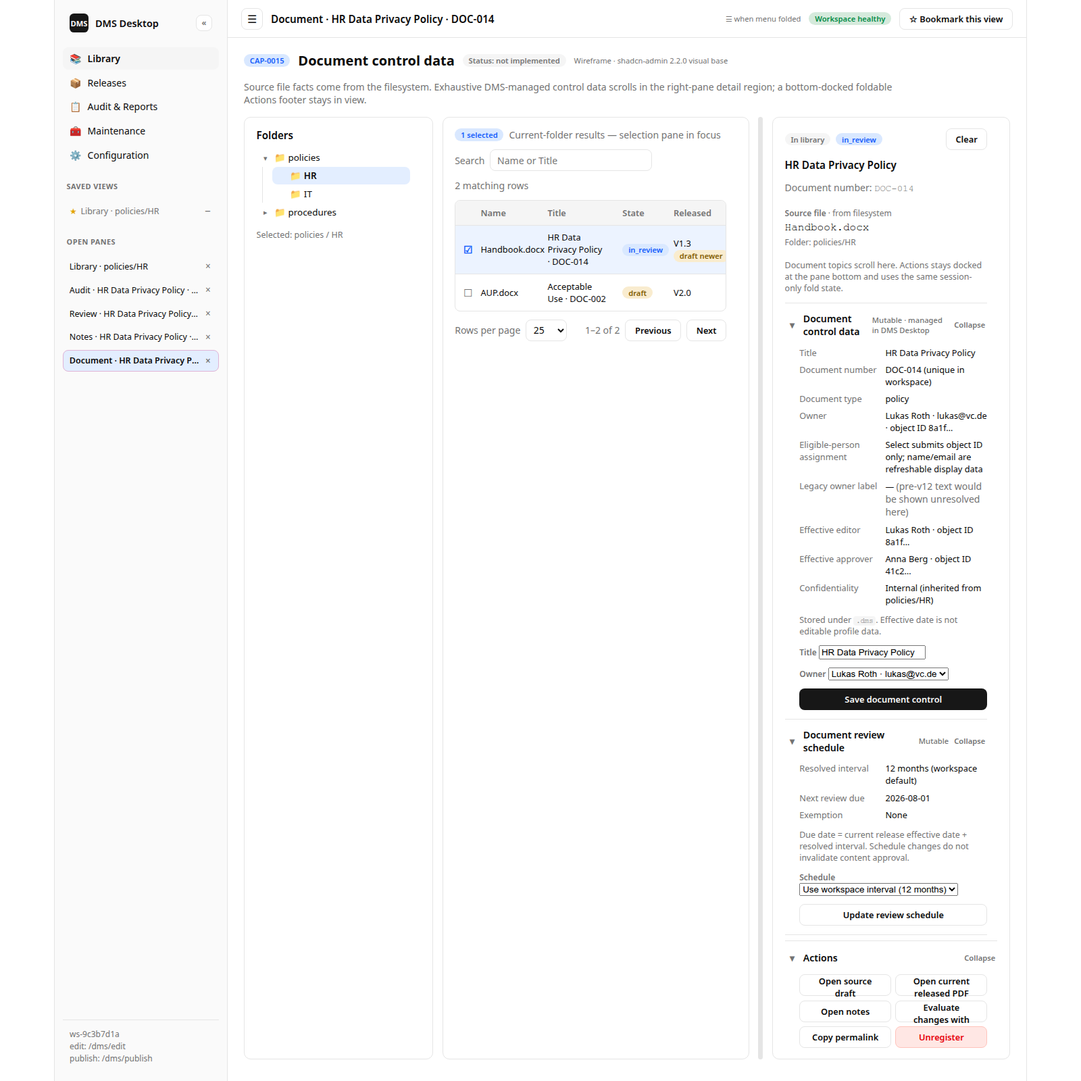
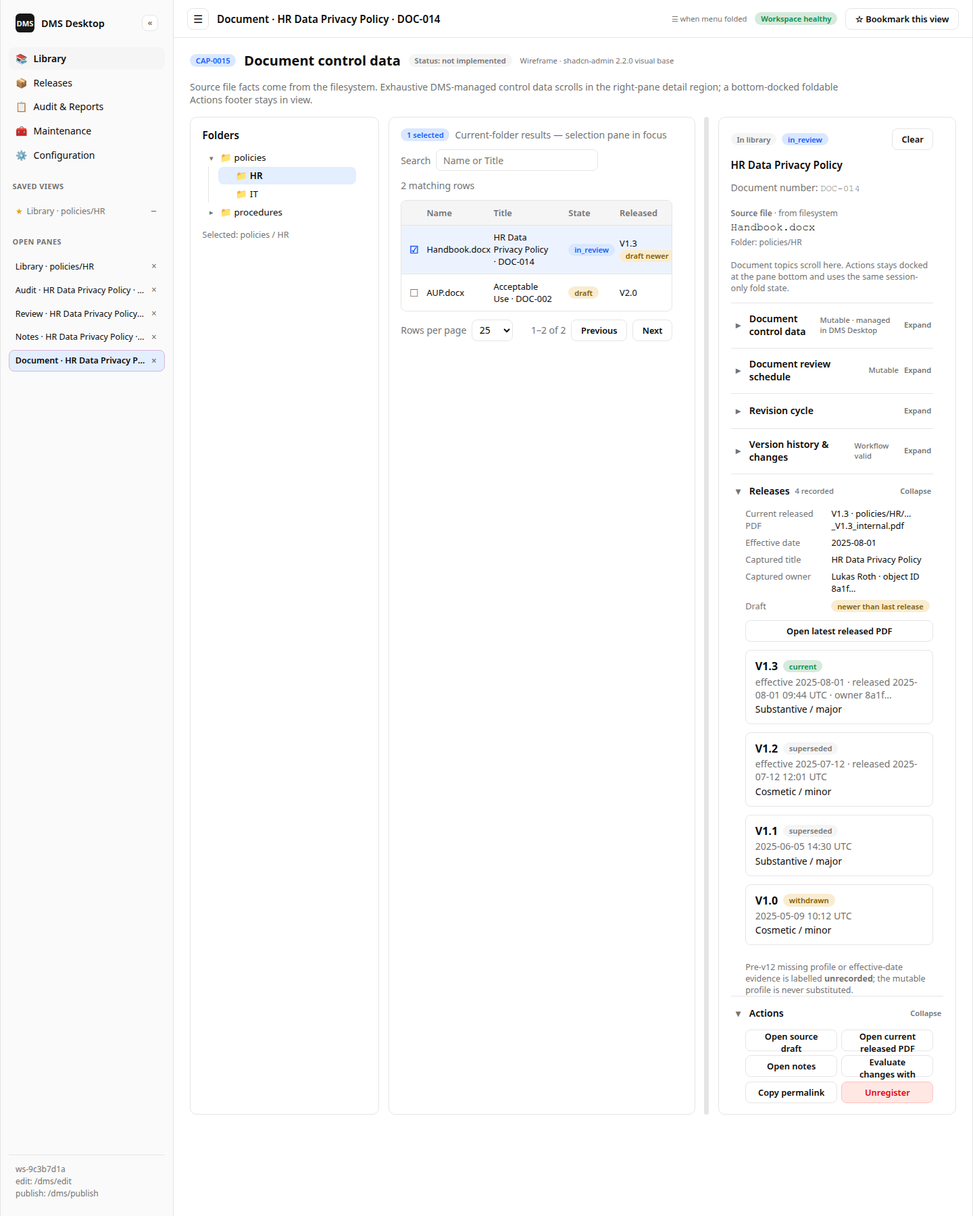
feat(desktop): default document pane to releases

diff --git a/docs/changes/archive/CHG-0028-document-pane-defaults-review.html b/docs/changes/archive/CHG-0028-document-pane-defaults-review.html
@@ -1,0 +1,15 @@
+<!doctype html>
+<html lang="en">
+<head>
+<meta charset="utf-8">
+<meta name="viewport" content="width=device-width,initial-scale=1">
+<title>Proposal — Document-pane defaults · DMS Desktop</title>
+<style>
+:root{--bg:#fff;--ink:#1f2933;--muted:#667885;--line:#dfe6ea;--panel:#f8fafb;--accent:#0f5f87;--good:#1e7a4f;font-family:Inter,ui-sans-serif,system-ui,sans-serif;color:var(--ink)}*{box-sizing:border-box}body{margin:0;background:#f1f4f6}.notice{padding:9px 18px;text-align:center;background:#7b3f00;color:#fff;font-size:13px;font-weight:750}.app{display:flex;width:1440px;max-width:100%;min-height:920px;margin:0 auto;background:#fff}.sidebar{width:220px;flex:0 0 auto;padding:18px 12px;background:#fbfcfd;border-right:1px solid var(--line)}.brand{font-weight:750;margin:8px 10px 20px}.brand b{display:inline-grid;place-items:center;width:25px;height:25px;margin-right:7px;border-radius:5px;background:#183b4d;color:#fff;font-size:10px}.nav{display:grid;gap:3px}.nav div{padding:10px;border-radius:6px;color:#3c4f5b;font-size:14px}.nav .active{background:#e9f1f5;color:#183b4d;font-weight:700}.main{flex:1;min-width:0}.header{height:58px;display:flex;align-items:center;padding:0 24px;border-bottom:1px solid var(--line);font-size:14px;font-weight:700}.header span{color:var(--muted);font-weight:500}.content{padding:24px}.eyebrow{color:#7b3f00;font-size:12px;font-weight:800;letter-spacing:.06em;text-transform:uppercase}h1{margin:6px 0;font-size:24px}.intro{margin:0;color:var(--muted);font-size:14px;max-width:900px}.library{display:grid;grid-template-columns:220px minmax(360px,1fr) 398px;gap:14px;height:690px;margin-top:20px}.card{border:1px solid var(--line);border-radius:8px;background:#fff;min-width:0}.card-head{padding:13px 14px;border-bottom:1px solid var(--line);font-weight:750;font-size:14px}.tree{padding:12px}.folder{padding:7px 4px;font-size:13px}.folder.active{border-radius:5px;background:#e6f2f8;color:var(--accent);font-weight:700}.indent{padding-left:18px}.list{overflow:hidden}.toolbar{display:flex;gap:8px;padding:11px 13px;border-bottom:1px solid var(--line)}.crumb{flex:1;border:1px solid var(--line);border-radius:5px;padding:8px;color:var(--muted);font-size:12px}.search{width:150px;border:1px solid var(--line);border-radius:5px;padding:8px;color:#9ba9b2;font-size:12px}table{width:100%;border-collapse:collapse;font-size:12px}th{background:var(--panel);color:var(--muted);text-align:left;padding:10px}td{padding:11px 10px;border-top:1px solid var(--line)}tr.selected td{background:#eaf4f9}.badge{display:inline-block;padding:3px 7px;border-radius:999px;background:#edf1f3;color:#52636f;font-size:11px;font-weight:700}.badge.good{background:#e5f5eb;color:var(--good)}.detail{display:flex;flex-direction:column;overflow:hidden}.detail-top{padding:14px;border-bottom:1px solid var(--line)}.detail-top h2{margin:7px 0 2px;font-size:17px}.source{color:var(--muted);font-size:12px;line-height:1.5}.detail-scroll{overflow:auto;padding:0 14px 12px}details{border-top:1px solid var(--line)}summary{display:flex;align-items:center;gap:8px;min-height:43px;list-style:none;font-size:13px;font-weight:750}summary:before{content:'▸';color:var(--muted)}details[open]>summary:before{content:'▾'}summary .hint{margin-left:auto;color:var(--muted);font-size:11px;font-weight:600}.release-body{padding:0 0 13px}.release-current{padding:9px 10px;border:1px solid #bcd6e3;border-radius:6px;background:#f4fafc;font-size:12px}.release-current strong{display:block}.release-current span{color:var(--muted)}.release-row{display:flex;justify-content:space-between;padding:9px 2px;border-bottom:1px solid #edf0f2;font-size:12px}.release-row small{color:var(--muted)}.action-footer{margin-top:auto;border-top:1px solid var(--line);padding:0 14px 12px}.actions{display:flex;gap:7px;flex-wrap:wrap}.btn{padding:7px 9px;border:1px solid #b9c8d0;border-radius:5px;background:#fff;color:#314651;font-size:12px;font-weight:650}.callout{margin-top:16px;padding:11px 13px;border-radius:7px;background:#fff5d6;color:#684600;font-size:13px;line-height:1.45}code{font-family:ui-monospace,SFMono-Regular,Menlo,monospace}
+</style>
+</head>
+<body>
+<div class="notice">REVIEW PROPOSAL — NOT IMPLEMENTED · CHG-0028</div>
+<div class="app"><aside class="sidebar"><div class="brand"><b>DMS</b>Desktop</div><div class="nav"><div class="active">📚 Library</div><div>📦 Releases</div><div>📋 Audit &amp; Reports</div><div>🧰 Maintenance</div><div>⚙ Configuration</div></div></aside><main class="main"><header class="header">Library <span>· Policies / HR</span></header><div class="content"><div class="eyebrow">Proposed initial pane state</div><h1>Start with releases, keep other document topics compact</h1><p class="intro">The right selection pane opens the release record that an operator most often needs to inspect. Version history, revision actions, mutable control data, and review scheduling remain available as ordinary collapsed disclosures. The docked Actions disclosure remains open.</p><section class="library"><aside class="card tree"><div class="card-head">Folders <span>⌄</span></div><div class="folder">▾ 📁 DMS Workspace</div><div class="folder indent">▾ 📁 Policies</div><div class="folder indent active">▾ 📁 HR</div><div class="folder indent">　 📁 Recruiting</div></aside><section class="card list"><div class="toolbar"><div class="crumb">DMS Workspace › Policies › <b>HR</b></div><div class="search">Search library</div></div><table><thead><tr><th>Name</th><th>Title</th><th>State</th><th>Released</th></tr></thead><tbody><tr class="selected"><td>📄 Handbook.docx</td><td><b>HR Data Privacy Policy</b><br>DOC-014</td><td><span class="badge">draft</span></td><td>V1.4</td></tr><tr><td>📄 Code_of_conduct.docx</td><td>Code of Conduct</td><td><span class="badge good">released</span></td><td>V2.0</td></tr></tbody></table></section><aside class="card detail"><div class="detail-top"><span class="badge good">In library</span> <span class="badge">draft</span><h2>HR Data Privacy Policy</h2><div class="source"><b>Source file</b><br>Handbook.docx · Policies/HR/Handbook.docx</div></div><div class="detail-scroll"><details><summary>Document control data <span class="hint">Expand</span></summary></details><details><summary>Document review schedule <span class="hint">Expand</span></summary></details><details><summary>Revision cycle <span class="hint">Expand</span></summary></details><details><summary>Version history &amp; changes <span class="hint">Expand</span></summary></details><details open><summary>Releases <span class="hint">Collapse</span></summary><div class="release-body"><div class="release-current"><strong>Current released PDF · V1.4</strong><span>policies/HR/Handbook_V1.4_internal.pdf</span><br><span>Effective 2026-08-02 · available</span></div><div class="release-row"><span><b>V1.4</b><br><small>Current · released 2026-08-02</small></span><span class="badge good">verified</span></div><div class="release-row"><span><b>V1.3</b><br><small>Superseded · released 2026-07-12</small></span><span class="badge good">verified</span></div><div class="release-row"><span><b>V1.2</b><br><small>Superseded · released 2026-06-05</small></span><span class="badge">unrecorded</span></div></div></details></div><div class="action-footer"><details open><summary>Actions <span class="hint">Collapse</span></summary><div class="actions"><button class="btn">Open source draft</button><button class="btn">Open latest released PDF</button><button class="btn">Open notes</button><button class="btn">Copy permalink</button></div></details></div></aside></section><p class="callout"><b>Deliberate boundary:</b> the removed history anchor is not replaced by a CAP-0011 link in DMS Desktop. CAP files are repository contracts, not installed operator help pages; the packaged app has no stable local CAP path or configured documentation URL. The folded topic remains the runtime entry point.</p></div></main></div>
+</body>
+</html>

diff --git a/docs/product/wireframes/html/CAP-0006-library-explorer.html b/docs/product/wireframes/html/CAP-0006-library-explorer.html
@@ -463,9 +463,8 @@ tr:last-child td { border-bottom: 0; }
       <div class="mono" style="margin-top:0.3rem">Handbook.docx</div>
       <div class="muted" style="font-size:0.75rem;margin-top:0.2rem">Folder: policies/HR</div>
     </div>
-    <button class="btn outline" style="width:100%;margin-top:0.7rem">View version history &amp; changes <span class="muted">· V1.3 current</span></button>
     <p class="hint">Document topics scroll here. Actions stays docked at the pane bottom and uses the same session-only fold state.</p>
-    <details class="selection-section" open>
+    <details class="selection-section">
       <summary><span class="selection-section-title">Document control data</span><span class="selection-section-meta">Mutable · managed in DMS Desktop</span></summary>
       <div class="selection-section-body"><dl class="kv"><div><dt>Title</dt><dd>HR Data Privacy Policy</dd></div><div><dt>Document number</dt><dd>DOC-014 (unique in workspace)</dd></div><div><dt>Document type</dt><dd>policy</dd></div><div><dt>Owner</dt><dd>Lukas Roth · lukas@vc.de · object ID 8a1f…</dd></div><div><dt>Eligible-person assignment</dt><dd>Select submits object ID only; name/email are refreshable display data</dd></div><div><dt>Legacy owner label</dt><dd>— <span class="muted">(pre-v12 text would be shown unresolved here)</span></dd></div><div><dt>Effective editor</dt><dd>Lukas Roth · object ID 8a1f…</dd></div><div><dt>Effective approver</dt><dd>Anna Berg · object ID 41c2…</dd></div><div><dt>Confidentiality</dt><dd>Internal (inherited from policies/HR)</dd></div></dl><p class="hint">Stored under <code>.dms</code>. Effective date is not editable profile data.</p>
       <div class="stack" style="margin-top:0.75rem">
@@ -474,7 +473,7 @@ tr:last-child td { border-bottom: 0; }
         <button class="btn">Save document control</button>
       </div></div>
     </details>
-    <details class="selection-section" open>
+    <details class="selection-section">
       <summary><span class="selection-section-title">Document review schedule</span><span class="selection-section-meta">Mutable</span></summary>
       <div class="selection-section-body"><dl class="kv"><div><dt>Resolved interval</dt><dd>12 months (workspace default)</dd></div><div><dt>Next review due</dt><dd>2026-08-01</dd></div><div><dt>Exemption</dt><dd>None</dd></div></dl><p class="hint">Due date = current release effective date + resolved interval. Schedule changes do not invalidate content approval.</p>
       <div class="stack" style="margin-top:0.75rem">
@@ -482,7 +481,7 @@ tr:last-child td { border-bottom: 0; }
         <button class="btn outline" disabled>Update review schedule</button>
       </div></div>
     </details>
-    <details class="selection-section" open>
+    <details class="selection-section">
       <summary><span class="selection-section-title">Revision cycle</span></summary>
       <div class="selection-section-body stack">
         <p class="muted" style="font-size:0.85rem;margin:0">Create a release candidate here in the workspace (not an external upload). Lifecycle is <code>released</code> while the draft matches the current release digest, and becomes <code>draft</code> when the draft changes or was never released. PDFs and history remain preserved.</p>
@@ -499,7 +498,7 @@ tr:last-child td { border-bottom: 0; }
         <p class="hint">Document-control-data changes while a review is open invalidate that review. Copy permalink uses workspace + document IDs only.</p>
       </div>
     </details>
-    <details class="selection-section" open>
+    <details class="selection-section">
       <summary><span class="selection-section-title">Version history &amp; changes</span><span class="selection-section-meta">Workflow valid</span></summary>
       <div class="selection-section-body stack">
         <p class="hint" style="margin:0">Versions and related workflow changes are grouped by the recorded actor. Expand a person to inspect individual events.</p>

diff --git a/docs/product/wireframes/html/CAP-0015-document-control-data.html b/docs/product/wireframes/html/CAP-0015-document-control-data.html
@@ -370,9 +370,8 @@ tr:last-child td { border-bottom: 0; }
       <div class="mono" style="margin-top:0.3rem">Handbook.docx</div>
       <div class="muted" style="font-size:0.75rem;margin-top:0.2rem">Folder: policies/HR</div>
     </div>
-    <button class="btn outline" style="width:100%;margin-top:0.7rem">View version history &amp; changes <span class="muted">· V1.3 current</span></button>
     <p class="hint">Document topics scroll here. Actions stays docked at the pane bottom and uses the same session-only fold state.</p>
-    <details class="selection-section" open>
+    <details class="selection-section">
       <summary><span class="selection-section-title">Document control data</span><span class="selection-section-meta">Mutable · managed in DMS Desktop</span></summary>
       <div class="selection-section-body"><dl class="kv"><div><dt>Title</dt><dd>HR Data Privacy Policy</dd></div><div><dt>Document number</dt><dd>DOC-014 (unique in workspace)</dd></div><div><dt>Document type</dt><dd>policy</dd></div><div><dt>Owner</dt><dd>Lukas Roth · lukas@vc.de · object ID 8a1f…</dd></div><div><dt>Eligible-person assignment</dt><dd>Select submits object ID only; name/email are refreshable display data</dd></div><div><dt>Legacy owner label</dt><dd>— <span class="muted">(pre-v12 text would be shown unresolved here)</span></dd></div><div><dt>Effective editor</dt><dd>Lukas Roth · object ID 8a1f…</dd></div><div><dt>Effective approver</dt><dd>Anna Berg · object ID 41c2…</dd></div><div><dt>Confidentiality</dt><dd>Internal (inherited from policies/HR)</dd></div></dl><p class="hint">Stored under <code>.dms</code>. Effective date is not editable profile data.</p>
       <div class="stack" style="margin-top:0.75rem">
@@ -381,7 +380,7 @@ tr:last-child td { border-bottom: 0; }
         <button class="btn">Save document control</button>
       </div></div>
     </details>
-    <details class="selection-section" open>
+    <details class="selection-section">
       <summary><span class="selection-section-title">Document review schedule</span><span class="selection-section-meta">Mutable</span></summary>
       <div class="selection-section-body"><dl class="kv"><div><dt>Resolved interval</dt><dd>12 months (workspace default)</dd></div><div><dt>Next review due</dt><dd>2026-08-01</dd></div><div><dt>Exemption</dt><dd>None</dd></div></dl><p class="hint">Due date = current release effective date + resolved interval. Schedule changes do not invalidate content approval.</p>
       <div class="stack" style="margin-top:0.75rem">
@@ -389,7 +388,7 @@ tr:last-child td { border-bottom: 0; }
         <button class="btn outline" disabled>Update review schedule</button>
       </div></div>
     </details>
-    <details class="selection-section" open>
+    <details class="selection-section">
       <summary><span class="selection-section-title">Revision cycle</span></summary>
       <div class="selection-section-body stack">
         <p class="muted" style="font-size:0.85rem;margin:0">Create a release candidate here in the workspace (not an external upload). Lifecycle is <code>released</code> while the draft matches the current release digest, and becomes <code>draft</code> when the draft changes or was never released. PDFs and history remain preserved.</p>
@@ -406,7 +405,7 @@ tr:last-child td { border-bottom: 0; }
         <p class="hint">Document-control-data changes while a review is open invalidate that review. Copy permalink uses workspace + document IDs only.</p>
       </div>
     </details>
-    <details class="selection-section" open>
+    <details class="selection-section">
       <summary><span class="selection-section-title">Version history &amp; changes</span><span class="selection-section-meta">Workflow valid</span></summary>
       <div class="selection-section-body stack">
         <p class="hint" style="margin:0">Versions and related workflow changes are grouped by the recorded actor. Expand a person to inspect individual events.</p>

diff --git a/docs/changes/archive/CHG-0028-document-pane-defaults.md b/docs/changes/archive/CHG-0028-document-pane-defaults.md
@@ -1,0 +1,173 @@
+# CHG-0028 — Document-pane initial disclosure state
+
+Make a selected Library document open with **Releases** expanded, while
+**Version history & changes**, **Revision cycle**, **Document control data**, and
+**Document review schedule** start folded; keep **Actions** unchanged and remove
+the Version history anchor button.
+
+**Plan ID:** CHG-0028-document-pane-defaults
+**Execution slot:** P0400
+**Created:** 2026-08-21
+**Depends on:** none
+**Entry checkpoint:** Operator did not choose a clarification option and directed the agent to use its best judgement; the recommended approval path was selected on 2026-08-21.
+**Context sources:** `docs/changes/AGENTS.md` (Local Contracts); `docs/product/capabilities/CAP-0006-library-explorer.md` (Outcomes 2, 6, 8); `docs/product/capabilities/CAP-0011-approval-evidence.md` (Outcome 4); `docs/product/capabilities/CAP-0015-document-control-data.md` (Outcome 11 and Outcome 14); `crates/dms-desktop/AGENTS.md` (Library selection-pane contract); `crates/dms-desktop/ui/library.mjs` (`DEFAULT_SELECTION_OPEN`, `openVersionHistory`, `selectionMarkup`); `crates/dms-desktop/ui/app.mjs` (`focusVersionHistorySummary`, `handleLibraryClick`); `crates/dms-desktop/ui/library.test.mjs`; `crates/dms-desktop/ui/app.test.mjs`; `docs/product/wireframes/generate.mjs` (CAP-0006/CAP-0011/CAP-0015 screens).
+**Produces:** An approved, tested initial disclosure order for the single-document Library pane, matching CAP contracts and CAP-linked wireframes without a runtime link to repository-only CAP files.
+**Status:** done — all verification gates passed.
+**Filename convention:** The repository's active-record contract requires `CHG-*.md`; `P0400` is this CHG's execution-order authority and does not change that filename convention.
+
+| Field | Value |
+| --- | --- |
+| ID | CHG-0028 |
+| Status | done |
+| External request | Direct operator request: "Redesign the document control pane as follows: (1) Releases unfolded (2) Version history & changes folded (3) Revision cycle folded (4) Document control data folded (5) Document review schedule folded (*) (a) Actions as is (b) Remove View version history & changes because it's only a anchro to the folded element; I would expect a link to the CAP-0011-approval-evidence page" |
+| Affected CAPs | CAP-0006, CAP-0011, CAP-0015 |
+| Decision records | None — disclosure defaults and in-pane presentation are capability-local |
+| Review wireframe | [`CHG-0028-document-pane-defaults-review.html`](CHG-0028-document-pane-defaults-review.html) · [`PNG export`](CHG-0028-document-pane-defaults-review.png) — review-only; not listed in the product wireframe manifest |
+
+## Current state
+
+- The recently completed CHG-0027 sets all five main detail topics open by
+default through `DEFAULT_SELECTION_OPEN`:
+  `crates/dms-desktop/ui/library.mjs:46-53`.
+- CHG-0027 added **View version history & changes** under Source file identity.
+  It calls `openVersionHistory`, renders, then focuses the history summary:
+  `library.mjs:72-74`; `crates/dms-desktop/ui/app.mjs`.
+- `Actions` is already an independently foldable, bottom-docked disclosure and
+  defaults open. It must not change.
+- The primary selection pane already has all required information for a Releases
+  default; no core query, IPC command, persistence, or lifecycle rule changes
+  are required.
+- CAP files are repository product contracts. The packaged DMS Desktop app loads
+  app-local frontend assets and has no configured, installed, or stable URL for
+  `CAP-0011-approval-evidence.md`; making a runtime CAP link would be broken for
+  operators outside a source checkout.
+
+## Review proposal
+
+- Default the main document-detail scroller to **Releases: open** and the other
+  four topics closed: **Version history & changes**, **Revision cycle**,
+  **Document control data**, and **Document review schedule**.
+- Preserve the user’s session-only fold choices across document switches exactly
+  as today. These are only fresh-activity defaults; no preference or `.dms`
+  value is added.
+- Remove the **View version history & changes** control and its focus helper.
+  The history topic remains available as its own named disclosure.
+- Do **not** replace the removed control with a CAP-0011 hyperlink in the runtime
+  app. That would expose a build-repository path as an operator feature and is
+  not a deployable documentation surface. If a documentation website is later
+  introduced with a stable operator URL, it needs its own capability and plan.
+
+## Risk call-out
+
+The main risk is regressively resetting an operator’s session choice when a
+selected document changes. The implementation must alter only
+`DEFAULT_SELECTION_OPEN`; `setSelectionSectionOpen` and selection changes must
+continue preserving the existing `selection_open` object. Recovery is a
+frontend-only `git restore` of the UI, tests, CAPs, and regenerated wireframes;
+no `.dms` data changes.
+
+## Phases
+
+| # | Phase | Status | Verification gate |
+| --- | --- | --- | --- |
+| 0 | Operator review and approval | done (operator-directed best-judgement approval, 2026-08-21) | Operator explicitly approves this CHG and its review wireframe in chat before runtime, CAP, or production-wireframe edits |
+| 1 | Apply disclosure defaults and remove the redundant anchor | done (`node --test crates/dms-desktop/ui/library.test.mjs crates/dms-desktop/ui/app.test.mjs`, 62 passed) | `node --test crates/dms-desktop/ui/library.test.mjs` and `node --test crates/dms-desktop/ui/app.test.mjs` exit 0 with default-order, session-persistence, and no-anchor assertions |
+| 2 | Synchronize CAP contracts and product wireframes | done (`node docs/product/wireframes/generate.mjs`; Chrome exported CAP-0006/CAP-0015 PNGs; 21 HTML + 21 PNG pairs) | CAP-0006, CAP-0011, and CAP-0015 describe the approved default state; `node docs/product/wireframes/generate.mjs` exits 0; CAP-0006/CAP-0011/CAP-0015 HTML+PNG outputs are current |
+| 3 | Run workspace gates and close the record | done (`cargo fmt --check`; `cargo clippy --workspace --all-targets -- -D warnings`; `cargo test --workspace`; `node --test crates/dms-desktop/ui/*.test.mjs`, 106 passed) | `cargo fmt --check`, `cargo clippy --workspace --all-targets -- -D warnings`, `cargo test --workspace`, and `node --test crates/dms-desktop/ui/*.test.mjs` all exit 0; CHG is archived and indexes are accurate |
+
+Mark a phase `in-progress` while running it, `done (<evidence>)` once its gate
+passes, and `pending` otherwise.
+
+## Phase 0 — Operator review and approval
+
+**Goal:** Confirm the proposed information hierarchy and the deliberate absence
+of a runtime CAP link before changing any current behaviour.
+
+Steps:
+
+1. Review the linked CHG-local HTML and PNG proposal.
+2. Confirm that fresh document selections should start with Releases expanded
+   and all other main topics folded, while Actions stays as it is.
+3. Confirm the runtime boundary: remove the anchor without substituting a
+   repository CAP link. If an operator documentation URL is required instead,
+   stop and create a separate capability proposal.
+4. On explicit approval, mark this phase `done (operator approval)` and Phase 1
+   `in-progress` before implementation.
+
+Verification gate: Explicit operator approval is recorded in this CHG and the
+conversation before implementation starts.
+
+## Phase 1 — Apply disclosure defaults and remove the redundant anchor
+
+**Goal:** New Library activities present Releases first without losing
+session-only disclosure choices later in the activity.
+
+Steps:
+
+1. In `ui/library.mjs`, change `DEFAULT_SELECTION_OPEN` to `releases: true` and
+   `history`, `revision`, `control`, and `schedule`: `false`; retain `actions:
+   true`.
+2. Remove `openVersionHistory`, the anchor markup below Source file identity,
+   and its `aria-controls` target. Keep the named history disclosure intact.
+3. Remove `focusVersionHistorySummary` and the corresponding click path from
+   `ui/app.mjs`; no backend call or new interaction replaces it.
+4. Update Library and app tests to prove the exact fresh defaults, session-state
+   preservation across document switches, absence of the anchor/focus helper,
+   present history disclosure, and unchanged Actions default.
+
+Verification gate: `node --test crates/dms-desktop/ui/library.test.mjs
+crates/dms-desktop/ui/app.test.mjs` exits 0 with the stated assertions.
+
+## Phase 2 — Synchronize CAP contracts and product wireframes
+
+**Goal:** Current documentation and static product visuals describe the approved
+initial state rather than the superseded history anchor.
+
+Steps:
+
+1. Amend CAP-0006 Outcome 6 and Outcome 8: remove the direct history action and
+   state the fresh disclosure defaults plus session-only preservation.
+2. Amend CAP-0015 Outcome 11 and Outcome 14: distinguish Releases as the open
+   fresh default, the other four main topics as initially folded, and Actions as
+   unchanged.
+3. Amend CAP-0011 Outcome 4: history remains a folded, named in-pane topic;
+   remove the direct-anchor claim and state no repository-CAP runtime link.
+4. Update `crates/dms-desktop/AGENTS.md` to match the settled selection-pane
+   contract.
+5. Update CAP-0006, CAP-0011, and CAP-0015 in
+   `docs/product/wireframes/generate.mjs`; regenerate their HTML, manifest,
+   index, and matching PNG exports. Do not add the CHG review artifact to the
+   product manifest.
+
+Verification gate: Affected CAPs and desktop DOX match the approved interaction;
+`node docs/product/wireframes/generate.mjs` exits 0; 21 HTML/PNG pairs remain in
+the manifest; CAP-0006/CAP-0011/CAP-0015 outputs show the correct defaults.
+
+## Phase 3 — Run workspace gates and close the record
+
+**Goal:** Deliver the narrow disclosure-default vertical slice with executable
+evidence and complete repository records.
+
+Steps:
+
+1. Run `cargo fmt --check`.
+2. Run `cargo clippy --workspace --all-targets -- -D warnings`.
+3. Run `cargo test --workspace`.
+4. Run `node --test crates/dms-desktop/ui/*.test.mjs`.
+5. Complete the DOX pass against `docs/AGENTS.md`, `docs/product/AGENTS.md`,
+   `docs/changes/AGENTS.md`, and `crates/dms-desktop/AGENTS.md`.
+6. Record the passed gates, archive this CHG and its review artifacts, and update
+   `docs/changes/README.md` in the same change. Commit the UI, tests, CAPs,
+   generated wireframes, and CHG receipt as one vertical slice.
+
+Verification gate: Every listed command exits 0; the CHG is archived and the
+change index points to it.
+
+## Out of scope
+
+- A runtime browser link to repository-only CAP Markdown or to an unspecified
+  documentation site.
+- A workspace-wide history screen, new activity tab, external documentation
+  subsystem, IPC command, `.dms` schema change, or saved preference.
+- Any change to workflow event grouping, release records, verification verdicts,
+  audit-export content, or Actions behaviour.

diff --git a/docs/product/capabilities/CAP-0006-library-explorer.md b/docs/product/capabilities/CAP-0006-library-explorer.md
@@ -130,9 +130,6 @@
      confidentiality with its source and inherited/overridden status, effective
      editor/approver, current release, draft-newer marker)
    - **document actions** for that selection
-   Directly below Source file identity, **View version history & changes** opens
-   the existing history topic in the same pane; it does not create a new
-   activity or reload the document.
    CAP-0015 owns field rules and revision/obsolescence semantics; CAP-0006 owns
    navigation, selection, and pane placement. Its **Document control data**,
    **Document review schedule**, **Revision cycle**, **Version history &
@@ -145,7 +142,9 @@
    summary stays fully visible at heading height. Unfolding it shows every
    action; the main details scroller shrinks first. The
    selection header (including lifecycle badge) and Source file identity remain
-   visible. Section fold
+   visible. A fresh Library activity expands **Releases** and folds **Document
+   control data**, **Document review schedule**, **Revision cycle**, and
+   **Version history & changes**; **Actions** remains expanded. Section fold
    open/closed state, including Actions, is session-only and survives document
    switches within the Library activity. The centre/details divider is pointer- and
    keyboard-resizable for the active Library session between 280 and 640 pixels
@@ -176,8 +175,7 @@
      lifecycle allows (CAP-0002 / CAP-0015)
    - **Mark obsolete** (CAP-0015)
    - **Notes** (CAP-0003)
-   - **View version history & changes** (CAP-0011) — a visible direct entry to
-     the pane topic; it unfolds and focuses that topic without a backend call
+   - **Version history & changes** (CAP-0011)
    - **Verify release integrity** (CAP-0004)
    - **Start periodic review** when due rules allow (CAP-0017)
    - **Reassociate source** when the selected document is **Lost source**

diff --git a/crates/dms-desktop/AGENTS.md b/crates/dms-desktop/AGENTS.md
@@ -102,13 +102,12 @@ macOS.
   document-control editing, the document confidentiality override, candidate
   creation, review decision, release, local lifecycle actions, and canonical
   workflow evidence; file rows remain selection-only and preserve exact source
-  names. Below Source file identity, **View version history & changes** unfolds
-  and focuses the existing history topic without a backend call or a new
-  activity. For one selected library document it groups **Document control
+  names. For one selected library document it groups **Document control
   data**, **Document review schedule**, **Revision cycle**, **Version history &
   changes**, and **Releases** into frameless independently foldable sections
   with a visible disclosure chevron and Expand/Collapse cue on each summary.
-  Those topics live in the pane's main document-detail scroller. **Actions** is a separately foldable disclosure
+  A fresh Library activity expands **Releases** and folds the other four main
+  topics; later fold choices remain session-only. Those topics live in the pane's main document-detail scroller. **Actions** is a separately foldable disclosure
   docked at the bottom of the pane, expanded by default, using the same chevron
   and cue; its summary stays fully visible at heading height, and unfolding it
   shows every action while the main details scroller shrinks first. Its

diff --git a/docs/product/capabilities/CAP-0015-document-control-data.md b/docs/product/capabilities/CAP-0015-document-control-data.md
@@ -96,7 +96,8 @@
     first; the Actions body scrolls only if the pane is shorter than the
     heading plus those actions. The document
     identity, lifecycle badge, and Source file identity remain visible while any
-    section is folded. Fold open/closed state, including Actions, is
+    section is folded. A fresh Library activity expands **Releases** and folds
+    the other four main topics; **Actions** remains expanded. Fold open/closed state, including Actions, is
     session-only Library UI state shared across document switches in the open
     Library activity; it is not stored in `.dms`, preferences, or saved views.
     When a
@@ -136,8 +137,7 @@
     effective target version for Next minor / Next major / Manual, labels later
     Next minor options **approval optional**, and keeps Manual major/minor
     disabled unless Manual target is selected. **Version history & changes** is
-    a separate foldable topic reached from its direct entry below Source file
-    identity; it is not part of Revision cycle. There is no **Begin revision** action:
+    a separate foldable topic; it is not part of Revision cycle. There is no **Begin revision** action:
     Draft/Released follows CAP-0002 digest rules. These actions are not offered
     as multi-select batch actions unless a future CAP explicitly allows bulk
     obsolescence.

diff --git a/docs/product/capabilities/CAP-0011-approval-evidence.md b/docs/product/capabilities/CAP-0011-approval-evidence.md
@@ -29,12 +29,11 @@
    additionally records the interactive Microsoft Entra tenant/object ID and is
    rejected unless it matches the snapshotted effective approver (CAP-0019 /
    CAP-0021). Other workflow events do not claim Entra actor verification.
-4. The selected document's Library pane exposes **View version history &
-   changes** directly below Source file identity. It unfolds and focuses the
-   session-only **Version history & changes** topic without opening a new
-   activity, reloading the document, or making a backend call. The topic lists
-   every event **newest first**, consolidated into one visual block per (acting
-   person × release interval). An interval
+4. The selected document's Library pane exposes the session-only **Version
+   history & changes** topic. It is folded in a fresh Library activity, remains
+   available through its named disclosure, and is not replaced with a link to
+   repository-only CAP files. The topic lists every event **newest first**,
+   consolidated into one visual block per (acting person × release interval). An interval
    closes with its `release` event and the newer open interval is **Current draft
    work**. Each block summary identifies the person, event count, and time span;
    its nested fine-grained events show type, timestamp, changelog or decision or

diff --git a/docs/changes/README.md b/docs/changes/README.md
@@ -28,6 +28,7 @@ A CHG is not a feature specification; CAPs describe current behaviour.
 
 | ID | Title | Status | CAP impact |
 | --- | --- | --- | --- |
+| [CHG-0028](archive/CHG-0028-document-pane-defaults.md) | Document-pane initial disclosure state | done | CAP-0006, CAP-0011, CAP-0015 |
 | [CHG-0027](archive/CHG-0027-version-history-discoverability.md) | Discoverable version history and person-consolidated changes | done | CAP-0006, CAP-0011, CAP-0015 |
 | [CHG-0026](archive/CHG-0026-person-consolidated-workflow-evidence.md) | Person-consolidated workflow evidence without digest values | done | CAP-0011 |
 | [CHG-0023](archive/CHG-0023-os-level-dms-uri-registration.md) | OS-level `dms://` URI handler registration | done | CAP-0020 |
